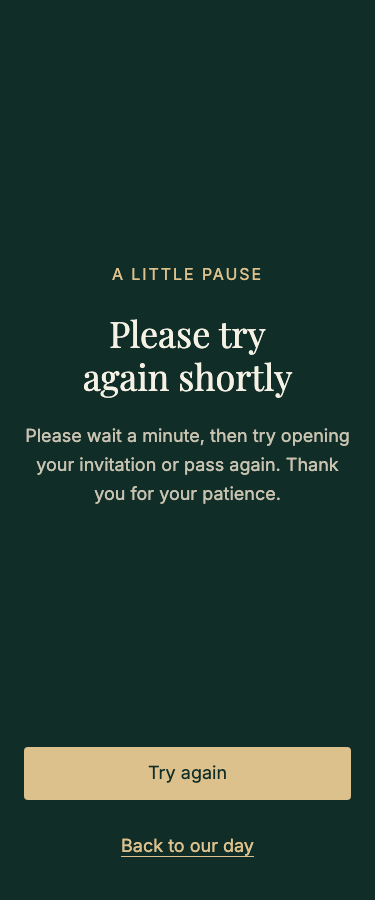
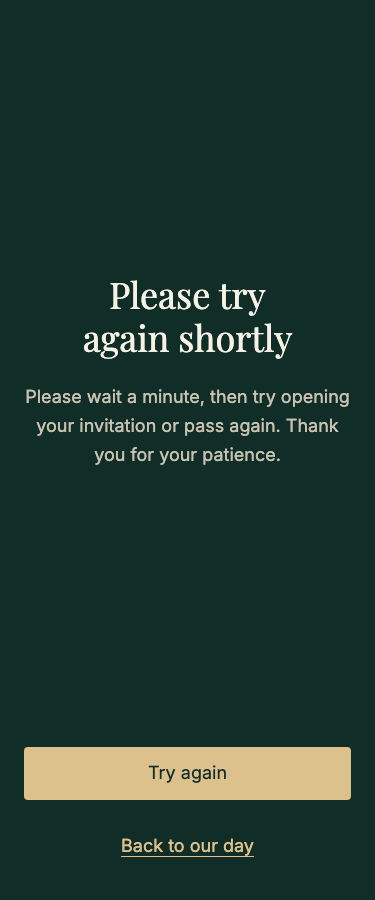
TICKET-185: stabilize retry layout during font loading

Changed region(s): [[0.0587, 0.28, 0.9387, 0.56]]

diff --git a/src/modules/shared/server/request-retry-document.ts b/src/modules/shared/server/request-retry-document.ts
@@ -11,23 +11,36 @@ export function requestRetryDocument() {
         `@font-face{font-family:"${font}";src:url("/share/fonts/${font}.ttf") format("truetype");font-display:swap;font-weight:100 900}`,
     )
     .join("\n");
-  const fontVars = fonts.map((font) => `--font-${font}:"${font}";`).join("");
+  // Keep metrics aligned with src/modules/theming/font-fallbacks.css.
+  const metrics = [
+    ["cormorant", "Times New Roman", "Liberation Serif", 95.27, 29.59, 96.98],
+    ["playfair", "Times New Roman", "Liberation Serif", 97.25, 22.56, 111.26],
+    ["inter", "Arial", "Liberation Sans", 90.44, 22.52, 107.12],
+    ["jost", "Arial", "Liberation Sans", 111.45, 39.06, 96.01],
+  ] as const;
+  const fallbackFaces = metrics
+    .map(
+      ([font, mac, linux, ascent, descent, size]) =>
+        `@font-face{font-family:"${font}-fallback";src:local("${mac}"),local("${linux}");ascent-override:${ascent}%;descent-override:${descent}%;line-gap-override:0%;size-adjust:${size}%}`,
+    )
+    .join("\n");
+  const fontVars = fonts.map((font) => `--font-${font}:"${font}","${font}-fallback";`).join("");
   return `<!doctype html><html lang="en"><head>
 <meta charset="utf-8"><meta name="viewport" content="width=device-width,initial-scale=1,viewport-fit=cover">
 <meta name="robots" content="noindex,nofollow,noarchive"><meta name="referrer" content="no-referrer">
 <title>Please try again shortly</title><style>
 ${fontFaces}
+${fallbackFaces}
 :root{${fontVars}}
 ${activeThemesToCssText(getActiveThemes())}
 *{box-sizing:border-box}body{margin:0;background:var(--t-color-background);color:var(--t-color-foreground);font-family:var(--t-font-body),sans-serif;font-size:18px;line-height:1.6}
 main{min-height:100dvh;max-width:42rem;margin:auto;padding:64px 24px max(32px,env(safe-area-inset-bottom));display:flex;flex-direction:column;text-align:center}
 section{flex:1;display:flex;flex-direction:column;align-items:center;justify-content:center;gap:24px}
-p,h1{margin:0}p{max-width:30rem}h1{font-family:var(--t-font-display),serif;font-weight:500;font-size:36px;line-height:1.2;text-wrap:balance}
-.label{color:var(--t-color-primary);letter-spacing:.12em;text-transform:uppercase;font-size:16px}
-.description{color:var(--t-color-muted-foreground)}form{margin-top:40px}button{font:inherit;font-weight:500;min-height:52px;min-width:44px;width:100%;padding:12px 28px;border:0;border-radius:var(--t-radius-md);background:var(--t-color-primary);color:var(--t-color-primary-foreground);cursor:pointer}
+p,h1{margin:0;width:100%}p{max-width:30rem}h1{font-family:var(--t-font-display),serif;font-weight:500;font-size:36px;line-height:1.2;min-height:2.4em;text-wrap:balance}
+.description{color:var(--t-color-muted-foreground);min-height:6.4em}form{margin-top:40px}button{font:inherit;font-weight:500;min-height:52px;min-width:44px;width:100%;padding:12px 28px;border:0;border-radius:var(--t-radius-md);background:var(--t-color-primary);color:var(--t-color-primary-foreground);cursor:pointer}
 button:focus-visible,a:focus-visible{outline:2px solid var(--t-color-ring);outline-offset:4px}a{display:inline-flex;align-items:center;justify-content:center;min-height:44px;color:var(--t-color-primary);margin-top:24px;text-underline-offset:4px}
-@media(min-width:768px){main{justify-content:center}section{flex:none}h1{font-size:48px}button{width:auto}}
-</style></head><body><main><section><p class="label">A little pause</p>
+@media(min-width:768px){main{justify-content:center}section{flex:none}h1{font-size:48px;min-height:1.2em}.description{min-height:3.2em}button{width:14rem}}
+</style></head><body><main><section>
 <h1>Please try again shortly</h1><p class="description">Please wait a minute, then try opening your invitation or pass again. Thank you for your patience.</p></section>
 <form method="get"><button type="submit">Try again</button></form><a href="/">Back to our day</a>
 </main></body></html>`;

diff --git a/e2e/request-budgets.spec.ts b/e2e/request-budgets.spec.ts
@@ -102,12 +102,29 @@ test.describe("private request budgets", () => {
   test("native retry layout stays stable while cold fonts load", async ({ page }, info) => {
     test.skip(info.project.name !== "desktop", "Explicit light/dark and three-width matrix");
     await page.addInitScript(() => {
-      const state = window as typeof window & { retryShifts: number[] };
+      const state = window as typeof window & { retryShifts: number[]; retrySources: string[] };
       state.retryShifts = [];
+      state.retrySources = [];
       new PerformanceObserver((list) => {
         for (const entry of list.getEntries()) {
-          const shift = entry as PerformanceEntry & { value: number; hadRecentInput: boolean };
-          if (!shift.hadRecentInput) state.retryShifts.push(shift.value);
+          const shift = entry as PerformanceEntry & {
+            value: number;
+            hadRecentInput: boolean;
+            sources: { node?: Node; previousRect: DOMRectReadOnly; currentRect: DOMRectReadOnly }[];
+          };
+          if (!shift.hadRecentInput) {
+            state.retryShifts.push(shift.value);
+            for (const source of shift.sources ?? []) {
+              state.retrySources.push(
+                JSON.stringify({
+                  node: source.node?.nodeName,
+                  text: source.node?.textContent?.slice(0, 100),
+                  previous: source.previousRect,
+                  current: source.currentRect,
+                }),
+              );
+            }
+          }
         }
       }).observe({ type: "layout-shift", buffered: true });
     });
@@ -115,7 +132,13 @@ test.describe("private request budgets", () => {
       await new Promise((resolve) => setTimeout(resolve, 500));
       await route.continue();
     });
-    const measurements: { scheme: string; width: number; shifts: number[]; total: number }[] = [];
+    const measurements: {
+      scheme: string;
+      width: number;
+      shifts: number[];
+      total: number;
+      sources: string[];
+    }[] = [];
     for (const scheme of ["light", "dark"] as const) {
       await page.emulateMedia({ colorScheme: scheme });
       for (const width of [375, 768, 1280]) {
@@ -135,7 +158,10 @@ test.describe("private request budgets", () => {
           () => (window as typeof window & { retryShifts: number[] }).retryShifts,
         );
         const total = shifts.reduce((sum, value) => sum + value, 0);
-        measurements.push({ scheme, width, shifts, total });
+        const sources = await page.evaluate(
+          () => (window as typeof window & { retrySources: string[] }).retrySources,
+        );
+        measurements.push({ scheme, width, shifts, total, sources });
         expect.soft(total, `${scheme} ${width} cold-font CLS`).toBe(0);
       }
     }

diff --git a/docs/reviews/TICKET-185/ui-review.md b/docs/reviews/TICKET-185/ui-review.md
@@ -1,7 +1,7 @@
 # TICKET-185 retry-state review — 2026-11-04
 
 Decision: **CHANGES REQUESTED / incomplete**. Screenshots and browser accessibility
-pass; performance, cold-font layout shift, physical devices and the native document's
+pass; performance, physical devices and the native document's
 font-loading exception remain unresolved. No UI completion is claimed.
 
 ## Verified evidence
@@ -27,23 +27,23 @@ that the outage document uses an administrator's custom active pair.
 
 ## Checklist
 
-| Item                 | Result and evidence                                                                                                                                                                                                                                             |
-| -------------------- | --------------------------------------------------------------------------------------------------------------------------------------------------------------------------------------------------------------------------------------------------------------- |
-| Screenshots          | PASS — 24 captured and inspected; no clipping or crowded copy.                                                                                                                                                                                                  |
-| Tokens               | PASS — registered colour/radius/font-role variables; no new palette or font files.                                                                                                                                                                              |
-| Restraint/typography | PASS for rendered states — one primary retry action, serif heading, 18px body, clear spacing.                                                                                                                                                                   |
-| Mobile               | PASS at 375/768/1280 — no horizontal overflow; buttons at least 44px; guest retry near bottom on phones.                                                                                                                                                        |
-| Motion               | PASS — reduced-motion mode exercised; native document has no animation or script.                                                                                                                                                                               |
-| Keyboard             | PASS — visible focus, native form retry and PIN-to-submit tab sequence.                                                                                                                                                                                         |
-| Contrast             | PASS — Axe checks in all theme/width combinations, textual status guidance.                                                                                                                                                                                     |
-| Load/images          | FAIL — cold-font CLS is nonzero in all six light/dark × width variants; see measurements below. Native response references existing local TTF assets with swap rather than next/font; resolve or obtain an explicit exception before approval. No images added. |
-| Performance          | NOT VERIFIED — no Lighthouse result for the denial document.                                                                                                                                                                                                    |
-| Copy                 | Provisional — warm generic retry text; long waits use minutes, while Retry-After keeps exact seconds. No credential or exception details.                                                                                                                       |
-| Shared components    | Existing PIN form unchanged; native outage document cannot use the normal streamed page renderer while preserving the tested status. Review this exception before completion.                                                                                   |
-| Sharing/devices      | NOT VERIFIED — no physical WhatsApp/iOS/Android check. Existing release gates remain mandatory.                                                                                                                                                                 |
-| QR                   | N/A — no QR rendering changed; denial prevents download generation.                                                                                                                                                                                             |
-| Staff feedback       | PASS for tested lockout — existing pending/status region, readable text, immediate form response; no scan/haptic change.                                                                                                                                        |
-| Verification         | FAIL / pending — full gate stops at three migration-authorization hook tests; quick gate and dedicated browser/build checks are separate evidence.                                                                                                              |
+| Item                 | Result and evidence                                                                                                                                                                                                                                                        |
+| -------------------- | -------------------------------------------------------------------------------------------------------------------------------------------------------------------------------------------------------------------------------------------------------------------------- |
+| Screenshots          | PASS — 24 captured and inspected; no clipping or crowded copy.                                                                                                                                                                                                             |
+| Tokens               | PASS — registered colour/radius/font-role variables; no new palette or font files.                                                                                                                                                                                         |
+| Restraint/typography | PASS for rendered states — one primary retry action, serif heading, 18px body, clear spacing.                                                                                                                                                                              |
+| Mobile               | PASS at 375/768/1280 — no horizontal overflow; buttons at least 44px; guest retry near bottom on phones.                                                                                                                                                                   |
+| Motion               | PASS — reduced-motion mode exercised; native document has no animation or script.                                                                                                                                                                                          |
+| Keyboard             | PASS — visible focus, native form retry and PIN-to-submit tab sequence.                                                                                                                                                                                                    |
+| Contrast             | PASS — Axe checks in all theme/width combinations, textual status guidance.                                                                                                                                                                                                |
+| Load/images          | PASS for measured CLS — zero in all six default light/dark × width variants; see final measurements below. Native response references existing local TTF assets with swap rather than next/font; resolve or obtain an explicit exception before approval. No images added. |
+| Performance          | NOT VERIFIED — no Lighthouse result for the denial document.                                                                                                                                                                                                               |
+| Copy                 | Provisional — warm generic retry text; long waits use minutes, while Retry-After keeps exact seconds. No credential or exception details.                                                                                                                                  |
+| Shared components    | Existing PIN form unchanged; native outage document cannot use the normal streamed page renderer while preserving the tested status. Review this exception before completion.                                                                                              |
+| Sharing/devices      | NOT VERIFIED — no physical WhatsApp/iOS/Android check. Existing release gates remain mandatory.                                                                                                                                                                            |
+| QR                   | N/A — no QR rendering changed; denial prevents download generation.                                                                                                                                                                                                        |
+| Staff feedback       | PASS for tested lockout — existing pending/status region, readable text, immediate form response; no scan/haptic change.                                                                                                                                                   |
+| Verification         | FAIL / pending — full gate stops at three migration-authorization hook tests; quick gate and dedicated browser/build checks are separate evidence.                                                                                                                         |
 
 Next: resolve font/performance review, obtain pending exact-path migration and budget
 approvals, rerun full verification and keep the PR draft until criteria are proved.
@@ -63,3 +63,21 @@ Reserving heading/body heights and fixed button widths still produced nonzero
 values (0.0004763082–0.0051484165), so that source experiment was reverted.
 The regression test remains, with its exact-zero assertions unchanged. Existing
 screenshots describe the restored source. No cold-font pass is claimed.
+
+## Final cold-font correction
+
+Source-rectangle diagnostics isolated heading wrapping and baseline changes during
+font swaps. The retry document now reserves heading/body space, uses the existing
+font registry's fallback metrics, and omits its redundant decorative label. The
+heading, explanatory copy, native retry form and home link remain visible.
+
+The exact-zero assertions now pass: light and dark each measure **0** at 375, 768
+and 1280px with font requests delayed 500ms. No shifts are filtered beyond the
+standard recent-user-input exclusion. The full retry suite passes six cases in
+12.5s, with two duplicate matrix cases skipped in the mobile project. HTTP and PIN
+checks still run in both browser projects. Twelve changed guest screenshots were
+refreshed and inspected; twelve PIN screenshots are unchanged. Axe, keyboard,
+overflow and target-size checks pass. Production build and quick verification
+(lint, types, nine related unit tests) pass. Evidence: `artifacts/TICKET-185/metric-*.log`
+and `retry-cold-fonts.json`. This does not certify other operating systems or the
+remaining native-font-loader exception, performance, devices or full gate.

diff --git a/docs/plans/TICKET-185-pr.md b/docs/plans/TICKET-185-pr.md
@@ -59,7 +59,7 @@ form; long waits are expressed in minutes. Downloads remain plain-text errors.
 
 See `docs/reviews/TICKET-185/ui-review.md`: visual, Axe, keyboard and tap-target
 checks pass across four themes and three widths. Five final browser cases pass;
-one duplicate visual matrix is intentionally skipped. Performance, cold-font CLS,
+one duplicate visual matrix is intentionally skipped. Performance,
 physical devices and native font-loading/shared-renderer exceptions remain unresolved.
 The UI review is incomplete, and this PR remains draft.
 
@@ -67,14 +67,14 @@ The UI review is incomplete, and this PR remains draft.
 
 None.
 
-## Cold-font verification checkpoint
+# Latest retry verification
 
-Added a six-variant cold-font regression test with exact-zero CLS assertions.
-It fails in all six variants (baseline 0.0004118127–0.0220330954). A height/width
-reservation experiment built successfully but also failed all six assertions;
-that source change was reverted. Measurements are recorded in the UI review.
-The new test is retained to expose the outstanding defect, not skipped or relaxed.
-Migration commit authorization and launch-budget approval remain pending.
-The live queue reports no ready next ticket. Leave other collaborators' stacks alone.
-Next: diagnose font-swap source rectangles, resolve the layout shifts, then repeat
-the browser matrix and full verification after migration approval.
+Metric-matched fallback fonts and reserved text space keep the native retry page
+stable while fonts load. A redundant decorative label was removed. Exact-zero CLS
+passes light/dark at 375/768/1280 with font requests delayed 500ms. The complete
+retry suite passes six cases (two duplicate mobile matrix skips), covering HTTP
+privacy, cookie replacement, keyboard retry, Axe and all-theme layouts. Twelve
+updated guest screenshots were inspected; PIN screenshots are unchanged. Production
+build and quick verification pass, including nine related unit tests. Migration
+authorization, approved budgets, performance/device review and full verification
+remain outstanding; this PR is still draft.

diff --git a/docs/handoffs/TICKET-185.md b/docs/handoffs/TICKET-185.md
@@ -105,3 +105,16 @@ Migration commit authorization and launch-budget approval remain pending.
 The live queue reports no ready next ticket. Leave other collaborators' stacks alone.
 Next: diagnose font-swap source rectangles, resolve the layout shifts, then repeat
 the browser matrix and full verification after migration approval.
+
+## Cold-font correction verified
+
+Continued independent work while migration/budget approvals remain pending. Added
+source rectangles to the existing regression diagnostics. Matched fallback metrics
+to the existing font registry, reserved heading/body space and removed a redundant
+decorative label. Exact-zero CLS now passes all six default light/dark × width
+variants. Full retry browser suite: six passes/two duplicate matrix skips, 12.5s.
+Build and quick verification pass (nine related unit tests); all twelve changed
+guest screenshots inspected. PIN screenshots unchanged. Full gate remains blocked
+by migration authorization; performance/devices/native-font-loader review remain.
+Next: measure production denial-page Lighthouse, obtain outstanding migration/budget
+approvals and rerun full verification. No other collaborator's stack was touched.
